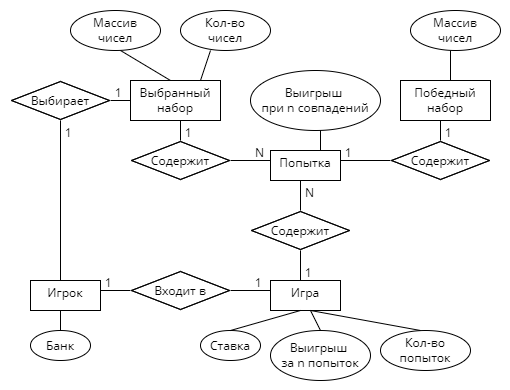
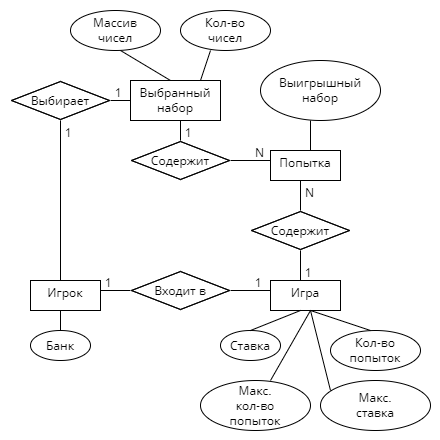
add lab5

diff --git a/labs/lab5.md b/labs/lab5.md
@@ -1,0 +1,62 @@
+# Лабораторная работа №5
+
+### Диаграмма классов
+
+![Модель](images/lab5.png)
+
+## Класс Attempt (Попытка):
+| Свойство     | Тип       | Описание              |
+|--------------|-----------|-----------------------|
+| WinningSpots | List\<int> | Массив победных чисел |
+
+| Метод | Аргументы | Возвращаемый тип | Описание |
+|--|--|--|--|
+| GenerateWinningSpots | n: int - размер массива победных чисел | List\<int> | Генерирует случайный массив победных чисел |
+| CalculateWinning | selectedSpots: SelectedSpots - массив чисел, выбранных игроком<br>bet: double - ставка | double | Проверяет наличие совпадений в выбранном и победном наборах и подсчитывает выигрыш |
+
+## Класс SelectedSpots (Набор выбранных спотов для игры):
+| Свойство     | Тип       | Описание              |
+|--------------|-----------|-----------------------|
+| Count | int | Количество выбранных игроком спотов |
+| spots | List\<int> | Выбранные игроком споты |
+
+| Поле     | Тип       | Описание              |
+|--------------|-----------|-----------------------|
+| spots | List\<int> | Выбранные игроком споты |
+
+| Метод | Аргументы | Возвращаемый тип | Описание |
+|--|--|--|--|
+| ChooseSpot | val: int - выбранный спот | int | Добавляет/убирает выбранный спот в список spots |
+| Clear |  |  | Очищает список выбранных игроком спотов |
+| Add | val: int - выбранный спот | int | Добавляет спот в список spots |
+| Remove | val: int - выбранный спот | int | Убирает спот из списока spots |
+| IsValidSpot | val: int - выбранный спот | int | Проверяет, можно ли выбрать данный спот |
+
+## Класс Player (Игрок):
+| Свойство     | Тип       | Описание              |
+|--------------|-----------|-----------------------|
+| Bank | double | Банк игрока |
+
+| Метод | Аргументы | Возвращаемый тип | Описание |
+|--|--|--|--|
+| Player | bank: double - начальный банк |  | Конструктор |
+| IncreaseBank | amount: double - значение для изменения банка  | double | Увеличивает банк игрока |
+| DecreaseBank | amount: double - значение для изменения банка  | double | Уменьшает банк игрока |
+
+## Класс Game (Игра):
+| Свойство     | Тип       | Описание              |
+|--------------|-----------|-----------------------|
+| Player | Player | Игрок |
+| Bet | double | Ставка |
+| Attempts | List\<Attempt> | Попытки |
+| AttemptsCount | int | Кол-во попыток |
+
+| Поле     | Тип       | Описание              |
+|--------------|-----------|-----------------------|
+| maxBet | double | Максимальная ставка |
+| maxAttempts | int | Максимальное кол-во попыток |
+| selectedSpots | SelectedSpots | Выбранный набор для игры |
+
+| Метод | Аргументы | Возвращаемый тип | Описание |
+|--|--|--|--|
+| Start | |  | Инициирует игру, создает экземпляры попыток |
